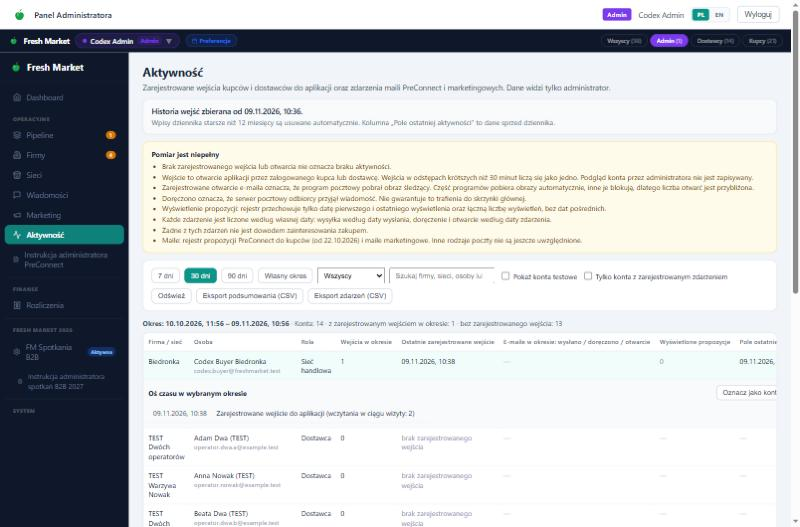
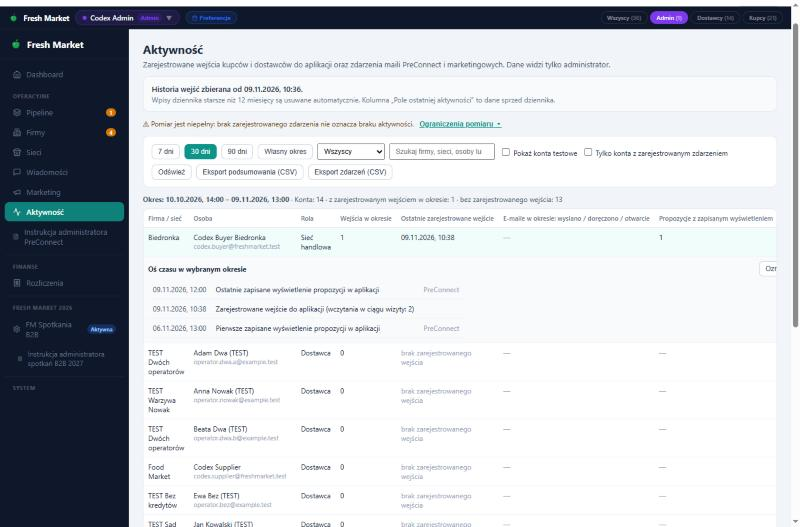
Aktywność: „Ograniczenia pomiaru” jako rozwijany odnośnik (akceptacja wyglądu Artura)
- zamiast dużego żółtego bloku: krótkie ostrzeżenie + przycisk „Ograniczenia pomiaru”
  (aria-expanded/aria-controls), domyślnie zwinięty, w środku te same 8 wyjaśnień
- test UI: domyślnie zwinięte, rozwijanie i zwijanie, komplet wyjaśnień
- pakiet: zrzuty komputer (zwinięte/rozwinięte), telefon poziomo, telefon pionowo;
  01-DLA-CODEXA.md i 00-CZYTAJ.md zaktualizowane (1258 testów OK)

diff --git a/src/components/admin/AdminActivity.jsx b/src/components/admin/AdminActivity.jsx
@@ -151,6 +151,7 @@ export default function AdminActivity({ fl = () => {} }) {
   const [open, setOpen] = useState(null);
   const [timeline, setTimeline] = useState(null);     // { profileId, events, total, loading, error }
   const [needDates, setNeedDates] = useState(false);
+  const [limitsOpen, setLimitsOpen] = useState(false);
   const [busy, setBusy] = useState(null);
   const [exporting, setExporting] = useState(false);
   const seq = useRef(0);
@@ -246,11 +247,19 @@ export default function AdminActivity({ fl = () => {} }) {
         <div style={{ fontSize: 12, color: "#64748b", marginTop: 2 }}>{t("admin.activity.retention")}</div>
       </div>
 
-      <div style={{ ...box, background: "#fffbeb", borderColor: "#fde68a" }} data-testid="activity-disclaimer">
-        <div style={{ fontSize: 12, fontWeight: 700, marginBottom: 4 }}>{t("admin.activity.disclaimer_title")}</div>
-        <ul style={{ margin: 0, paddingLeft: 18, fontSize: 12, color: "#713f12", lineHeight: 1.5 }}>
-          {["incomplete", "visit", "opened", "delivered", "app_view", "dates", "no_intent", "mail_scope"].map((k) => <li key={k}>{t("admin.activity.disclaimer." + k)}</li>)}
-        </ul>
+      {/* Krótkie ostrzeżenie + rozwijane „Ograniczenia pomiaru” (domyślnie zwinięte — więcej firm od razu widocznych). */}
+      <div style={{ marginBottom: 12, fontSize: 12, color: "#713f12", display: "flex", flexWrap: "wrap", alignItems: "baseline", gap: "4px 10px" }} data-testid="activity-disclaimer">
+        <span data-testid="activity-disclaimer-short">⚠ {t("admin.activity.disclaimer_short")}</span>
+        <button type="button" data-testid="activity-limits-toggle" aria-expanded={limitsOpen} aria-controls="activity-limits"
+          onClick={() => setLimitsOpen((v) => !v)}
+          style={{ border: "none", background: "none", padding: 0, color: "#0d9488", textDecoration: "underline", cursor: "pointer", fontSize: 12, fontWeight: 600 }}>
+          {t("admin.activity.limits_toggle")} {limitsOpen ? "▴" : "▾"}
+        </button>
+        {limitsOpen && (
+          <ul id="activity-limits" data-testid="activity-limits" style={{ flexBasis: "100%", margin: "6px 0 0", padding: "8px 12px 8px 26px", background: "#fffbeb", border: "1px solid #fde68a", borderRadius: 8, color: "#713f12", lineHeight: 1.5 }}>
+            {["incomplete", "visit", "opened", "delivered", "app_view", "dates", "no_intent", "mail_scope"].map((k) => <li key={k}>{t("admin.activity.disclaimer." + k)}</li>)}
+          </ul>
+        )}
       </div>
 
       <div style={{ ...box, display: "flex", flexWrap: "wrap", gap: 8, alignItems: "center" }}>

diff --git a/src/components/admin/AdminActivity.test.jsx b/src/components/admin/AdminActivity.test.jsx
@@ -49,6 +49,7 @@ describe("AdminActivity", () => {
     await flush();
     expect(calls.load).toHaveLength(1);
     expect(Math.round((new Date(calls.load[0].to) - new Date(calls.load[0].from)) / 864e5)).toBe(30);
+    await act(async () => { byId("activity-limits-toggle").props.onClick(); });   // rozwinięcie „Ograniczenia pomiaru”
     const s = out();
     expect(s).toContain("Okres: 10.10.2026");
     expect(s).toContain("Historia wejść zbierana od 09.11.2026");
@@ -66,6 +67,29 @@ describe("AdminActivity", () => {
     expect(s).toContain("ta sama data u 87 kont");
     expect(s).not.toMatch(/nie wszedł|nie przeczytał|nie otworzył|ustawione zbiorczo/);
     expect(byId("activity-disabled")).toBeUndefined();
+  });
+
+  it("„Ograniczenia pomiaru”: domyślnie zwinięte (krótkie ostrzeżenie), rozwijane i zwijane, komplet wyjaśnień w środku", async () => {
+    await act(async () => { tree = create(<AdminActivity />); });
+    await flush();
+    const toggle = () => byId("activity-limits-toggle");
+    expect(text(byId("activity-disclaimer-short").children)).toContain("Pomiar jest niepełny: brak zarejestrowanego zdarzenia nie oznacza braku aktywności.");
+    expect(text(toggle().children)).toContain("Ograniczenia pomiaru");
+    expect(toggle().props["aria-expanded"]).toBe(false);
+    expect(byId("activity-limits")).toBeUndefined();
+    expect(out()).not.toContain("Nie gwarantuje to trafienia do skrzynki głównej.");
+    await act(async () => { toggle().props.onClick(); });
+    expect(toggle().props["aria-expanded"]).toBe(true);
+    const items = byId("activity-limits").findAllByType("li").map((li) => text(li.children));
+    expect(items).toHaveLength(8);
+    for (const k of ["incomplete", "visit", "opened", "delivered", "app_view", "dates", "no_intent", "mail_scope"]) {
+      expect(items).toContain(t("admin.activity.disclaimer." + k));
+    }
+    await act(async () => { toggle().props.onClick(); });
+    expect(toggle().props["aria-expanded"]).toBe(false);
+    expect(byId("activity-limits")).toBeUndefined();
+    // tabela firm stoi zaraz pod filtrami — nie zasłania jej rozwinięty blok
+    expect(byId("activity-summary")).toBeDefined();
   });
 
   it("wyłączony zapis w bazie jest widoczny w zakładce", async () => {

diff --git a/docs/production/wdrozenie-aktywnosc-2026-11-09/01-DLA-CODEXA.md b/docs/production/wdrozenie-aktywnosc-2026-11-09/01-DLA-CODEXA.md
@@ -23,6 +23,16 @@ Produkcja **niezmieniona**: brak merge, deployu, migracji i zmian danych. Środo
 2. **Retencja tylko dziennika wejść** — `purge_app_visits()` usuwa wyłącznie z `app_visits`. Test: trzyletnie rekordy w `legacy_send_messages`, `legacy_send_email_events`, `legacy_send_app_reads`, `packages` zostają (odcisk tabel przed i po), a migracja nie zawiera innego `delete` niż na `app_visits` i `app_activity_test_accounts` (odznaczenie konta testowego).
 3. **Kontrola po wdrożeniu** — `05-kontrola-po-wdrozeniu.sql` + tabela § 7a: wejście kupca = 1 wizyta, odświeżenie = ta sama wizyta, podgląd admina nie zapisuje, dostawca dostaje „tylko administrator”. Skrypt uruchomiony na bazie testowej (kupiec e2e: 1 wizyta, `hit_count` 2; wizyty adminów 0; blok D: oczekiwany błąd).
 
+## Zmiana wyglądu po akceptacji Artura (9.11, po południu)
+
+Zamiast dużego żółtego bloku: krótkie ostrzeżenie + przycisk-odnośnik **„Ograniczenia pomiaru”** (`aria-expanded`, `aria-controls`), domyślnie zwinięty; po rozwinięciu te same 8 wyjaśnień co wcześniej. Test UI: domyślnie zwinięte, rozwijanie i zwijanie, komplet wyjaśnień. Akceptacja wyglądu **nie jest** zgodą na wdrożenie.
+
+Sprawdzone w przeglądarce (podgląd testowy, konto `codex.admin@freshmarket.test`):
+
+* komputer 1366×900 — podpisy kolumn i podpowiedzi (w tym „Propozycje z zapisanym wyświetleniem”), oś czasu kupca: „Pierwsze/Ostatnie zapisane wyświetlenie propozycji w aplikacji” bez liczby wyświetleń (tymczasowy odczyt na bazie testowej, potem usunięty), zwinięte i rozwinięte ograniczenia — `zrzut-test-aktywnosc.jpg`, `zrzut-test-aktywnosc-ograniczenia.jpg`;
+* telefon poziomo 812×375 — stuknięcie rozwija 8 wyjaśnień, tabela przewija się w bok wewnątrz ramki, strona bez poziomego przewijania — `zrzut-telefon-poziomo-ograniczenia.jpg`;
+* telefon pionowo 375×812 — cały panel admina (stały pasek boczny) zostawia treści ok. 107 px i pokazuje własny komunikat „Telefon pionowo może być niewygodny”; dotyczy wszystkich zakładek admina, nie tylko tej — `zrzut-telefon-pionowo.jpg`.
+
 ## Jak uruchomić testy
 
 ```
@@ -36,11 +46,11 @@ Uwaga: lokalny `.env.test` (poza repo) ma `VITE_ADMIN_ACTIVITY=true` i `VITE_APP
 
 ## Wyniki Claude (9.11, ok. 12:00)
 
-* Pełny zestaw: **121 plików OK, 2 pominięte; 1257 testów OK, 3 pominięte** (pominięte wymagają uruchomionego podglądu — bez związku z modułem). `vite build` OK.
-* Moduł: SQL 14/14, UI 13/13, instrukcja 4/4.
+* Pełny zestaw (po zmianie wyglądu): **121 plików OK, 2 pominięte; 1258 testów OK, 3 pominięte** (pominięte wymagają uruchomionego podglądu — bez związku z modułem). `vite build` OK.
+* Moduł: SQL 14/14, UI 14/14, instrukcja 4/4.
 * Baza testowa: migracja nałożona (ponownie — idempotentna, stan wyłącznika zachowany); `02` — zadanie `postgres/postgres`, `purge_app_visits` wykonuje tylko `postgres`; dwa przebiegi pg_cron `succeeded`; `04` → `enabled=false`, `03` → `enabled=true`; kontrola równoległości: 4 połączenia × 3 konta tymczasowe → kupiec 1/4, dostawca 1/4, admin 0, sprzątanie 0.
 
 ## Czego Claude nie sprawdził
 
 * Niczego na produkcji (zgodnie z poleceniem).
-* Wyglądu nowych podpisów kolumny i osi czasu w przeglądarce po ostatniej zmianie tekstów (sprawdzone testem UI; zrzut `zrzut-test-aktywnosc.jpg` jest sprzed tej zmiany).
+* Prawdziwego telefonu (tylko emulacja rozmiaru w przeglądarce podglądu).

diff --git a/docs/production/wdrozenie-aktywnosc-2026-11-09/00-CZYTAJ.md b/docs/production/wdrozenie-aktywnosc-2026-11-09/00-CZYTAJ.md
@@ -11,7 +11,7 @@ Administrator widzi dla każdego kupca i dostawcy w wybranym okresie:
 * **maile z istniejących rejestrów**: propozycje PreConnect do kupców (rejestr od 22.10.2026) i maile marketingowe (bez wiadomości testowych na adres zespołu);
 * **wyświetlenia propozycji w aplikacji** (kupcy, rejestr `legacy_send_app_reads`);
 * oś czasu konta, filtry (okres 7/30/90 dni lub własny, rola, wyszukiwanie, konta testowe, tylko konta ze zdarzeniem), eksport podsumowania i zdarzeń do CSV;
-* datę rozpoczęcia zbierania historii oraz zastrzeżenia pomiaru.
+* datę rozpoczęcia zbierania historii oraz krótkie ostrzeżenie „Pomiar jest niepełny…” z rozwijanym odnośnikiem **„Ograniczenia pomiaru”** (domyślnie zwinięty; w środku komplet 8 wyjaśnień) — wygląd zaakceptowany przez Artura 9.11, to nie jest zgoda na wdrożenie.
 
 Inne rodzaje poczty (moderacja, powiadomienia, przypomnienia) — następny etap.
 
@@ -52,7 +52,7 @@ Każde zdarzenie liczy się według **własnej daty**. Raport i oś czasu korzys
 ## 5. Wyniki kontroli (9.11.2026)
 
 * PGlite, pełny łańcuch migracji: 14/14 testów SQL (`tests/app-activity.integrated.test.js`) — wyłącznik, deduplikacja, przerwa > 30 min, admin i brak sesji, uprawnienia (RLS, EXECUTE, service_role; kupiec i dostawca bez dostępu do raportu i zdarzeń), raport, liczenie według dat (wysyłka przed okresem, otwarcie po okresie), przerwa między odczytami, filtr kont, jedna migawka zdarzeń, granica okresu dla ostatniego wejścia, walidacja okresu, retencja tylko dziennika wejść, brak wpływu na kredyty.
-* UI: 13/13 (`src/components/admin/AdminActivity.test.jsx`) — słownictwo, zastrzeżenia (w tym ograniczona historia wyświetleń), wyłącznik, konta testowe, oś czasu, spóźnione odpowiedzi, niepełny własny okres, blokada eksportu, **eksport zdarzeń jednym wywołaniem** (odmowa przy niepełnym lub zbyt dużym zbiorze), CSV.
+* UI: 14/14 (`src/components/admin/AdminActivity.test.jsx`) — słownictwo, „Ograniczenia pomiaru” (domyślnie zwinięte, rozwijanie/zwijanie, `aria-expanded`, komplet 8 wyjaśnień w środku), zastrzeżenia (w tym ograniczona historia wyświetleń), wyłącznik, konta testowe, oś czasu, spóźnione odpowiedzi, niepełny własny okres, blokada eksportu, **eksport zdarzeń jednym wywołaniem** (odmowa przy niepełnym lub zbyt dużym zbiorze), CSV.
 * Instrukcja: 4/4 (`tests/activity-instruction.test.js`) — rozdział „Aktywność kont” tylko przy włączonej zakładce, etykiety jak w panelu.
 * Pełny zestaw repo i `vite build`: wynik w `01-DLA-CODEXA.md`.
 * Baza testowa:
